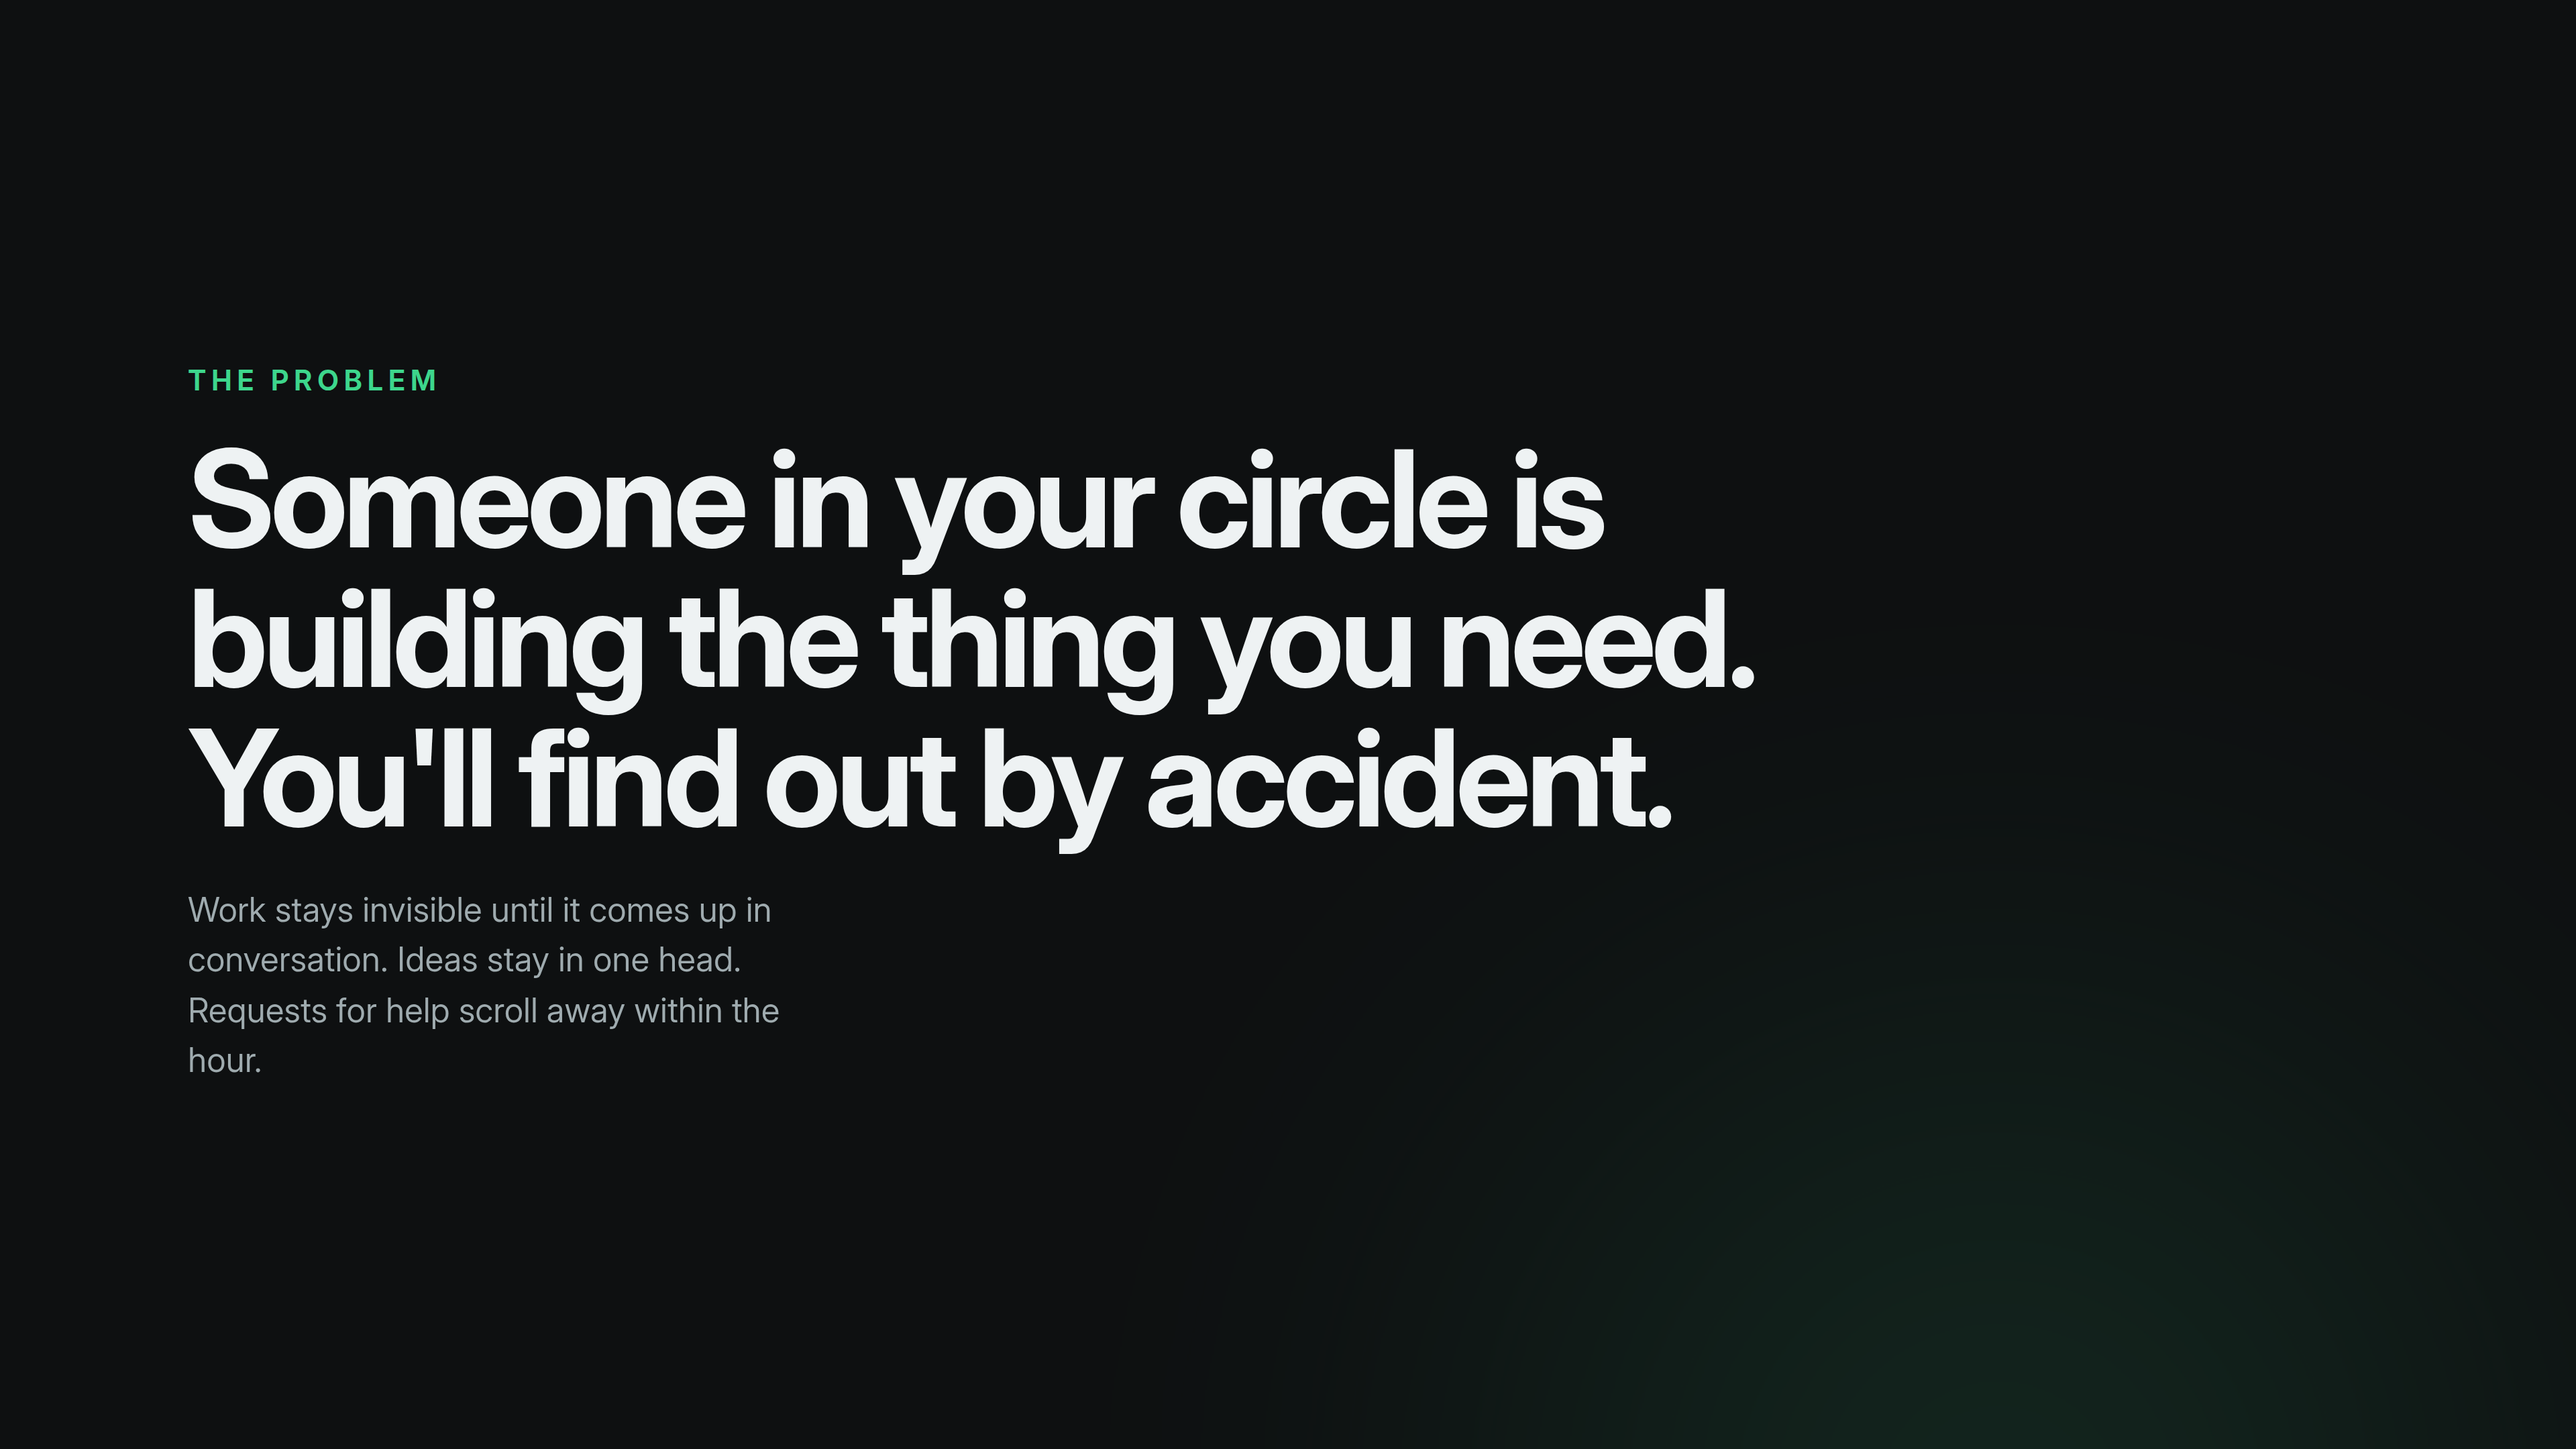
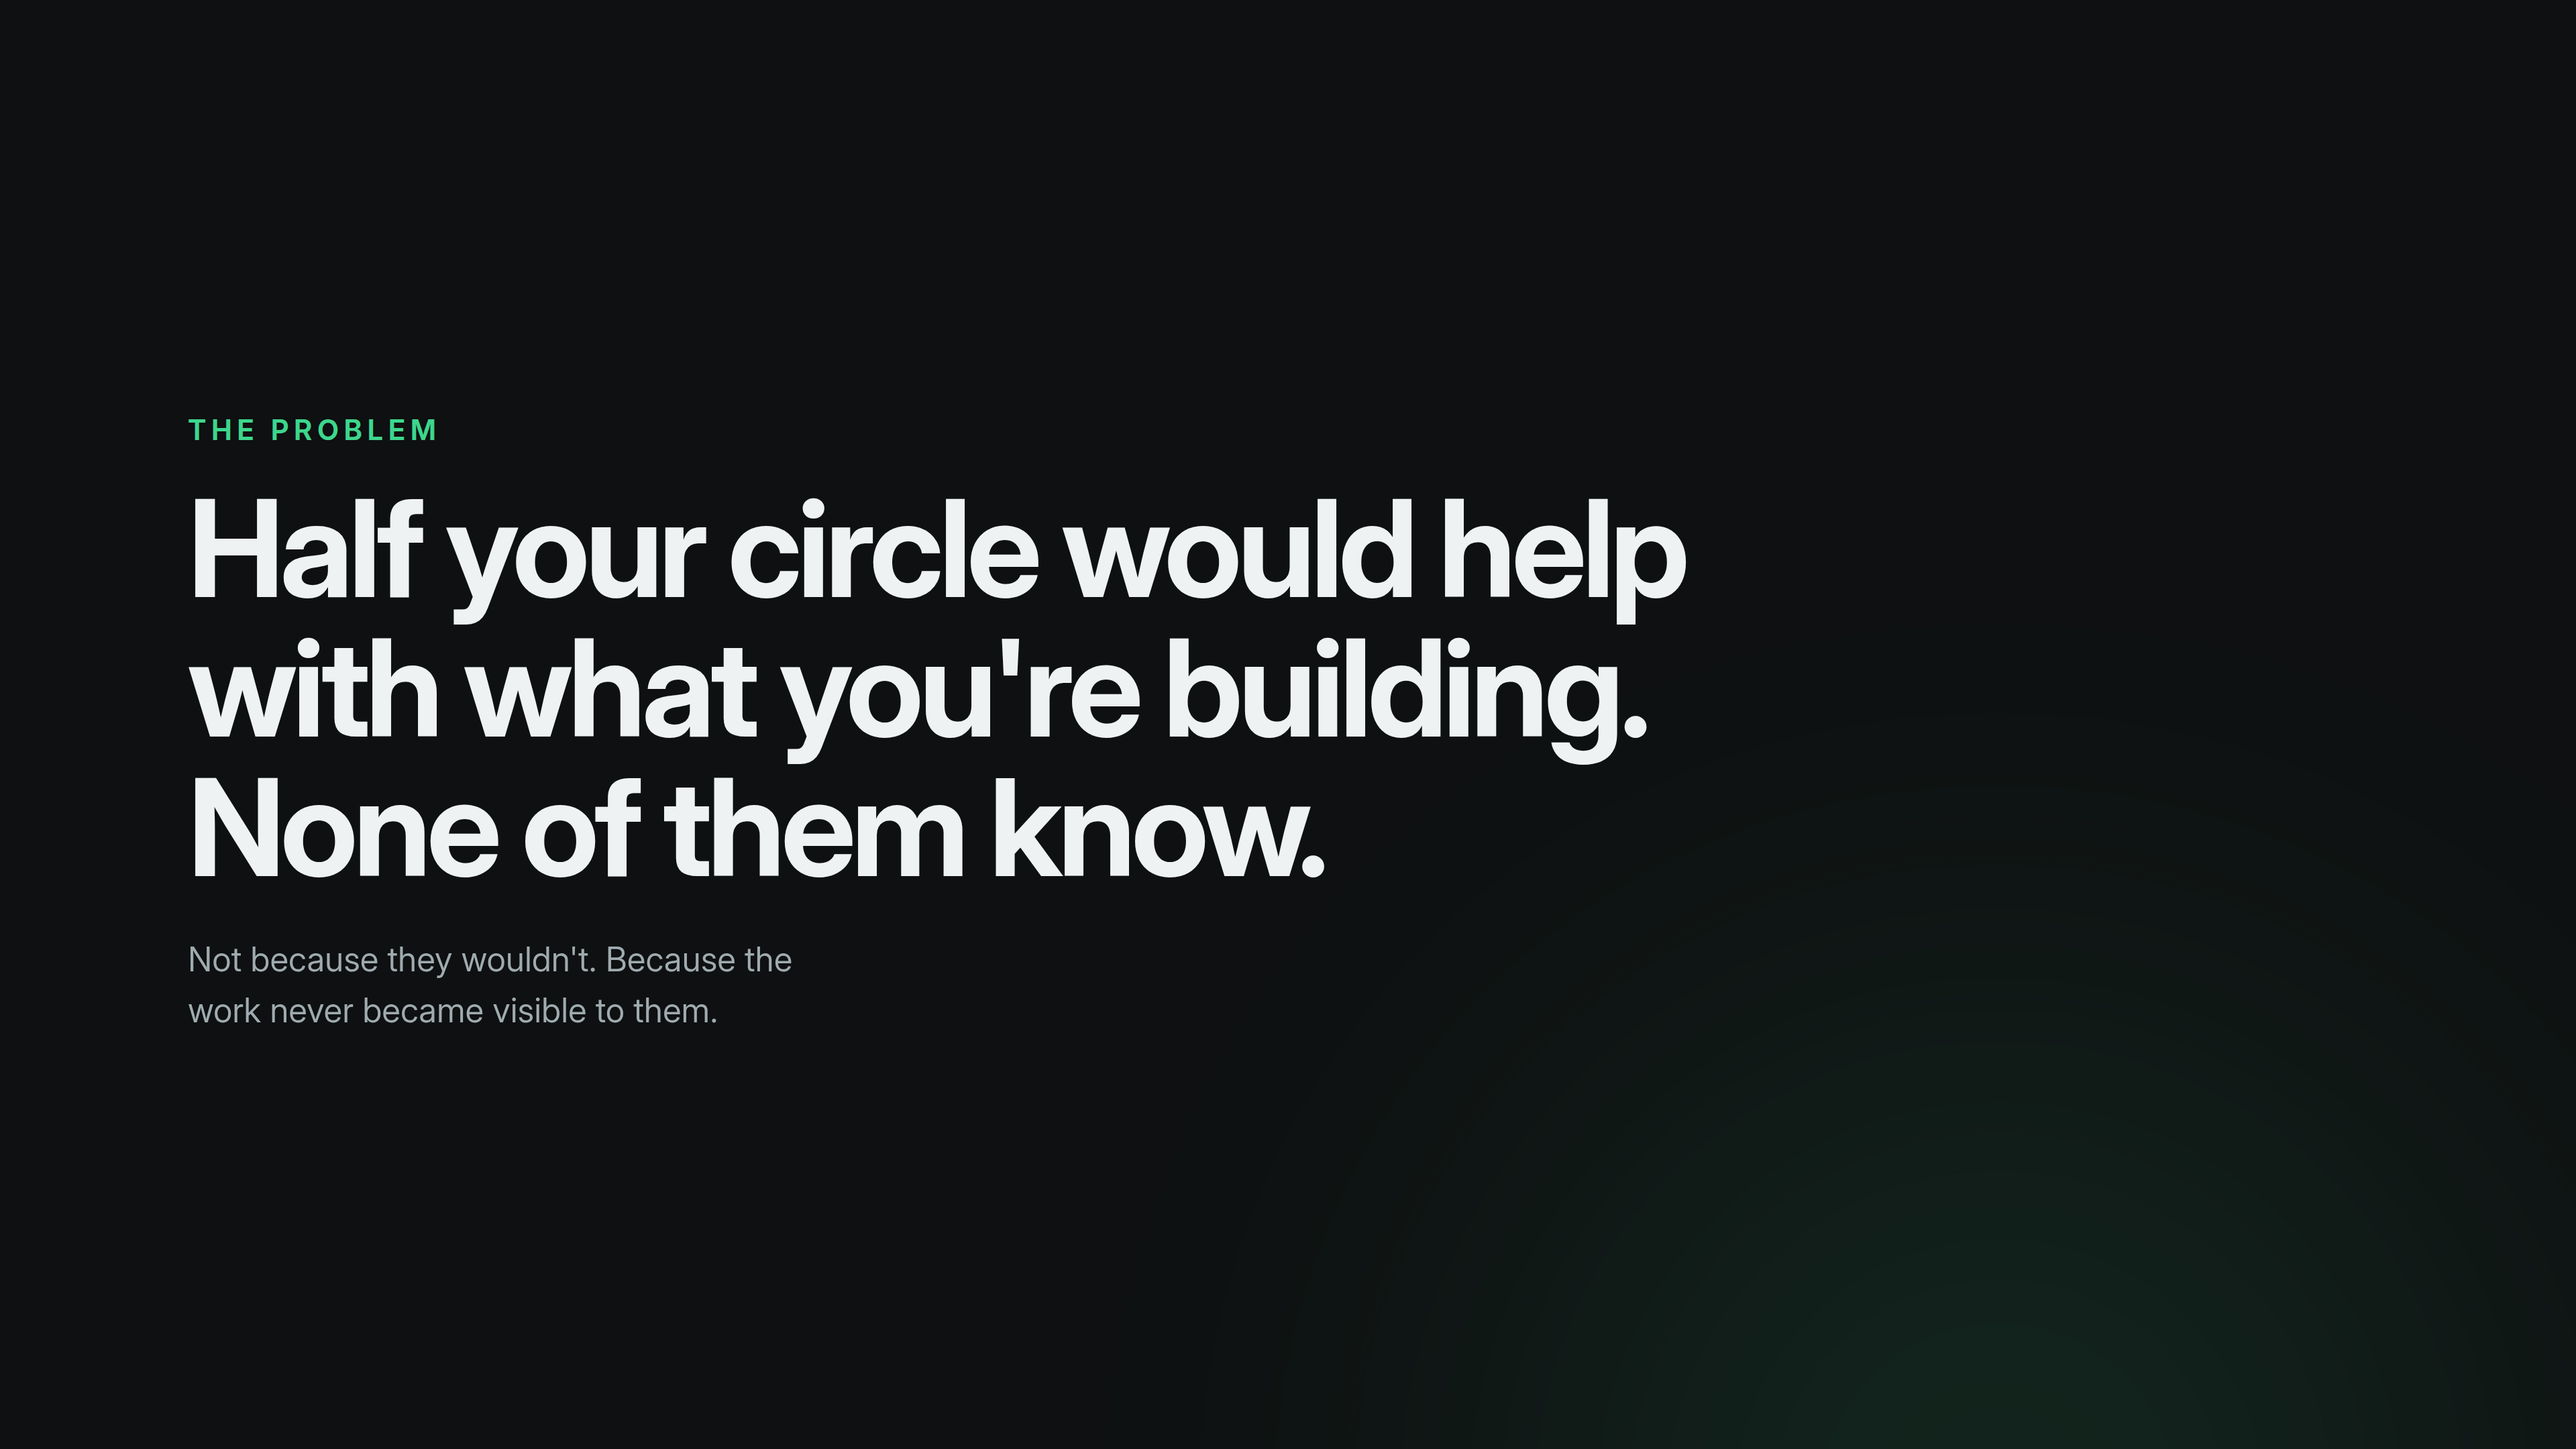
Fix the problem statement -- it had the product backwards
The previous line ('someone is building the thing you need, you'll
find out by accident') framed RepoCircle as a discovery tool for
finding code you need. That is the opposite of what it does. The
thesis in POSITIONING.md is that people would help with each other's
work if they could see it -- the direction runs outward, toward
someone else's project, not inward toward your own needs.

Now: half your circle would help with what you're building; none of
them know you're building it.

Slide re-rendered, video and GIF rebuilt.

Changed region(s): [[0.0625, 0.2481, 0.6875, 0.7444]]

diff --git a/docs/slides/slides.html b/docs/slides/slides.html
@@ -27,7 +27,7 @@ h2{font-size:62px;line-height:1.07;letter-spacing:-.03em;font-weight:670;color:v
 .foot{position:absolute;bottom:60px;left:0;right:0;text-align:center;font-size:22px;color:var(--faint);font-family:ui-monospace,monospace}
 .tint{background:linear-gradient(92deg,var(--accent),var(--accent2));-webkit-background-clip:text;background-clip:text;color:transparent}
 </style><section class="slide" id="00-title"><div class="halo tl"></div><div class="halo br"></div><div class="pad center"><svg class="mark" viewBox="0 0 24 24" fill="none" stroke="#3dd68c" stroke-width="1.5"><circle cx="12" cy="12" r="9"/><circle cx="12" cy="7.4" r="1.9" fill="#3dd68c"/><circle cx="7.8" cy="14.6" r="1.9" fill="#3dd68c"/><circle cx="16.2" cy="14.6" r="1.9" fill="#3dd68c"/></svg><h1>See what your circle<br>is <span class="tint">building</span>.</h1><p class="sub">A private space where a group of engineers shares what they're working on — and pulls each other in.</p><div class="tag"><b>RepoCircle</b> · invite-only · reads public repos only</div></div></section>
-<section class="slide" id="01-problem"><div class="halo br"></div><div class="pad"><div class="eyebrow">The problem</div><h1>Someone in your circle is<br>building the thing you need.<br>You'll find out by accident.</h1><p class="sub" style="max-width:32ch">Work stays invisible until it comes up in conversation. Ideas stay in one head. Requests for help scroll away within the hour.</p></div></section>
+<section class="slide" id="01-problem"><div class="halo br"></div><div class="pad"><div class="eyebrow">The problem</div><h1>Half your circle would help<br>with what you're building.<br>None of them know.</h1><p class="sub" style="max-width:32ch">Not because they wouldn't. Because the work never became visible to them.</p></div></section>
 <section class="slide" id="02-circle-home"><div class="halo br"></div><div class="split"><div class="copy"><div class="eyebrow">The circle</div><h2>One page for<br>the whole group</h2><p class="sub">What's new, what's active, what needs a hand, and who just arrived.</p></div><div class="shot"><div class="frame"><div class="bar"><span class="dot"></span><span class="dot"></span><span class="dot"></span><span class="url">repocircle</span></div><img src="crops/circle-home.png"></div></div></div></section>
 <section class="slide" id="03-matcher"><div class="halo tl"></div><div class="split flip"><div class="copy"><div class="eyebrow">Matching</div><h2>Work that wants<br>what you're good at</h2><p class="sub">Say what you can help with once. Projects that asked for exactly that come to you.</p></div><div class="shot"><div class="frame"><div class="bar"><span class="dot"></span><span class="dot"></span><span class="dot"></span><span class="url">repocircle</span></div><img src="crops/matcher.png"></div></div></div></section>
 <section class="slide" id="04-idea"><div class="halo br"></div><div class="split"><div class="copy"><div class="eyebrow">Ideas</div><h2>Pitch it before<br>you build it</h2><p class="sub">An idea needs no repository — just a sentence and the kind of help it wants.</p></div><div class="shot"><div class="frame"><div class="bar"><span class="dot"></span><span class="dot"></span><span class="dot"></span><span class="url">repocircle</span></div><img src="crops/idea-open.png"></div></div></div></section>

diff --git a/README.md b/README.md
@@ -25,7 +25,7 @@ An invite-only space where a group of engineers can see each other's work in pro
 
 ## The problem
 
-Someone in your circle is building the thing you need. You'll find out in six months, by accident.
+Half your circle would help with what you're building. None of them know you're building it.
 
 Work stays invisible until it happens to come up in conversation. Ideas stay in one head because pitching them feels like an interruption. And a request for help, posted to a busy channel, is gone within the hour.
 
